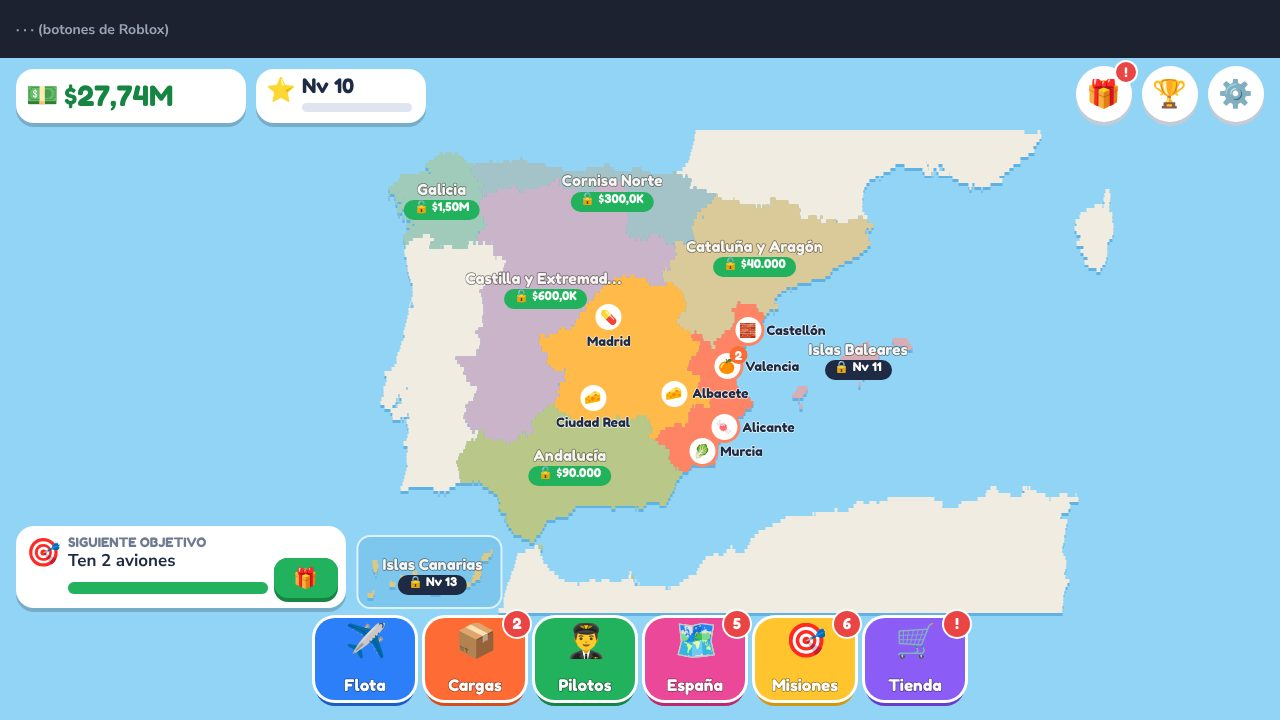
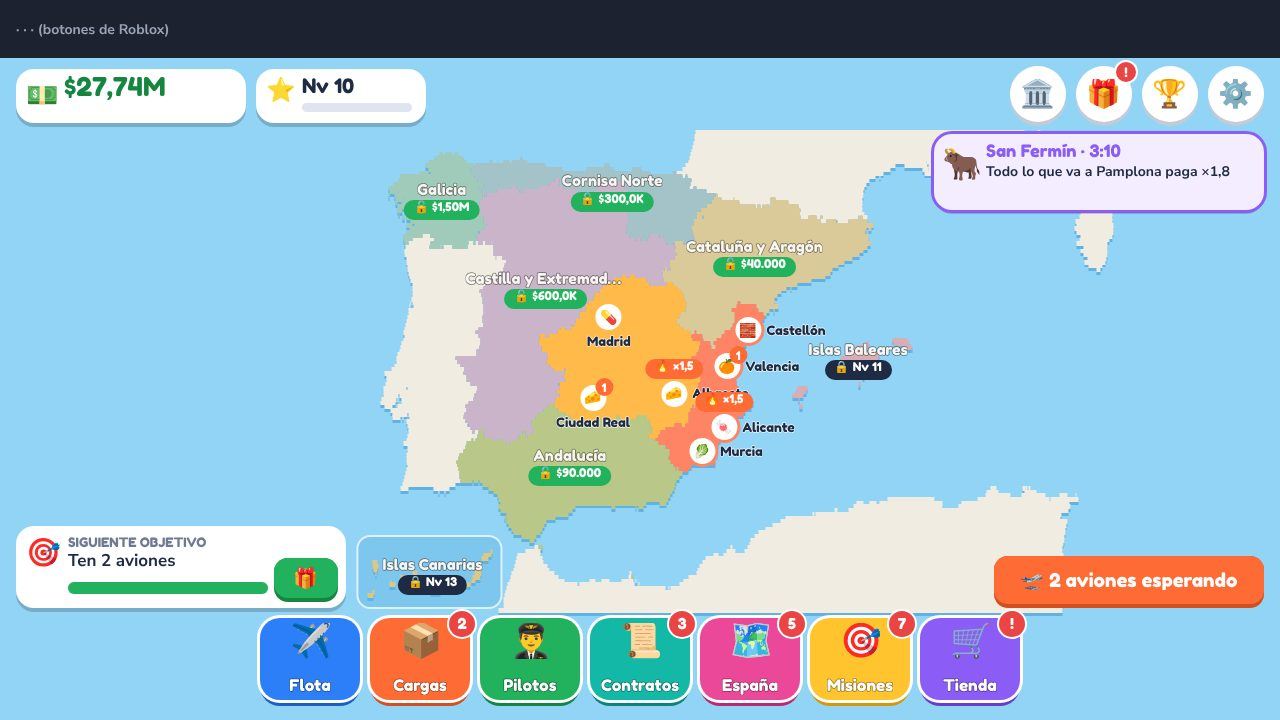
AeroCarga v0.3: capturas de la vista previa actualizadas en docs/
Claude-Session: https://claude.ai/code/session_01DWhxznbvToDCzYRisQAvgA

diff --git a/roblox-carga-aerea/DISENO.md b/roblox-carga-aerea/DISENO.md
@@ -4,6 +4,11 @@
 
 ![Mapa](docs/10_mapa.jpg)
 
+| | |
+|---|---|
+| ![Aterrizaje](docs/03b_tutorial_aterrizaje.jpg) | ![Contratos](docs/20_contracts.jpg) |
+| ![Pasaporte](docs/20_spain_passport.jpg) | ![Bolsa](docs/42_bolsa.jpg) |
+
 ## 1. Idea
 
 Tienes una avioneta en Madrid. Llevas los productos típicos de cada zona de España
